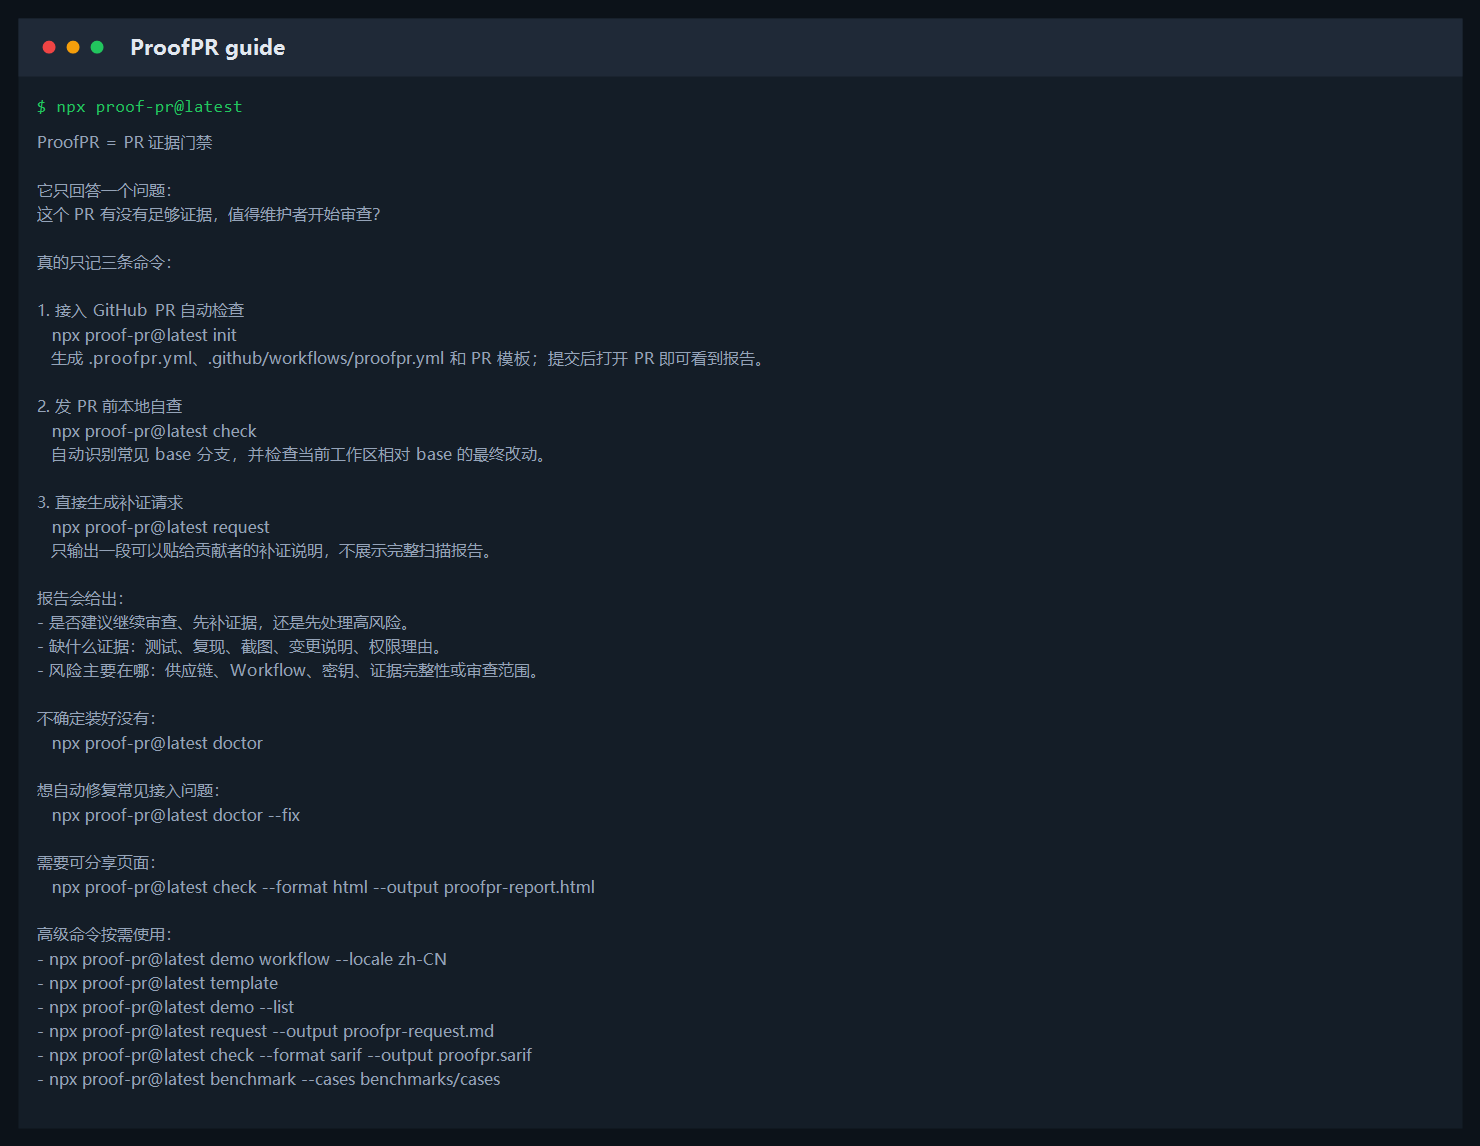
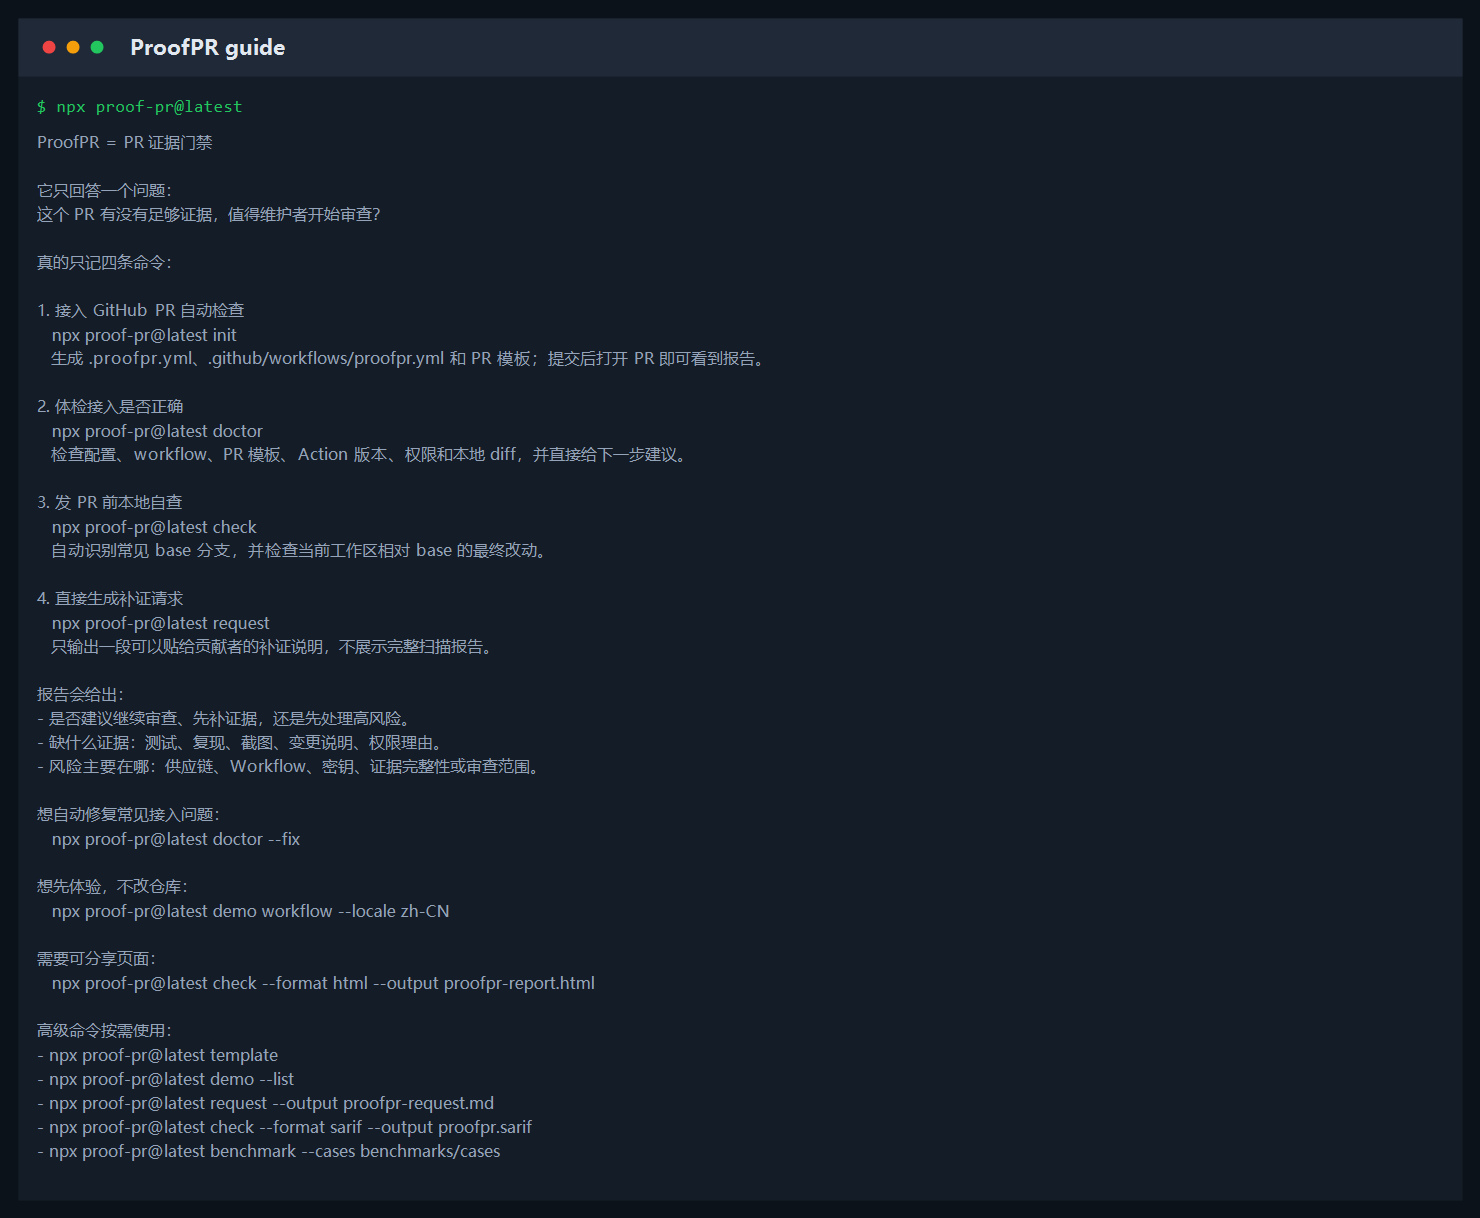
feat: promote doctor in quickstart

Changed region(s): [[0.0, 0.0305, 0.5284, 0.9468], [0.0311, 0.0305, 0.0622, 0.0611]]

diff --git a/packages/cli/src/index.ts b/packages/cli/src/index.ts
@@ -23,7 +23,7 @@ import {
 } from "@proof-pr/core";
 
 const execFileAsync = promisify(execFile);
-const CLI_VERSION = "0.1.42";
+const CLI_VERSION = "0.1.43";
 
 type OutputFormat = "json" | "markdown" | "sarif" | "html";
 type FailLevel = RiskLevel | "never";
@@ -623,17 +623,21 @@ function renderGuide(): string {
 它只回答一个问题：
 这个 PR 有没有足够证据，值得维护者开始审查？
 
-真的只记三条命令：
+真的只记四条命令：
 
 1. 接入 GitHub PR 自动检查
    npx proof-pr@latest init
    生成 .proofpr.yml、.github/workflows/proofpr.yml 和 PR 模板；提交后打开 PR 即可看到报告。
 
-2. 发 PR 前本地自查
+2. 体检接入是否正确
+   npx proof-pr@latest doctor
+   检查配置、workflow、PR 模板、Action 版本、权限和本地 diff，并直接给下一步建议。
+
+3. 发 PR 前本地自查
    npx proof-pr@latest check
    自动识别常见 base 分支，并检查当前工作区相对 base 的最终改动。
 
-3. 直接生成补证请求
+4. 直接生成补证请求
    npx proof-pr@latest request
    只输出一段可以贴给贡献者的补证说明，不展示完整扫描报告。
 
@@ -642,17 +646,16 @@ function renderGuide(): string {
 - 缺什么证据：测试、复现、截图、变更说明、权限理由。
 - 风险主要在哪：供应链、Workflow、密钥、证据完整性或审查范围。
 
-不确定装好没有：
-   npx proof-pr@latest doctor
-
 想自动修复常见接入问题：
    npx proof-pr@latest doctor --fix
+
+想先体验，不改仓库：
+   npx proof-pr@latest demo workflow --locale zh-CN
 
 需要可分享页面：
    npx proof-pr@latest check --format html --output proofpr-report.html
 
 高级命令按需使用：
-- npx proof-pr@latest demo workflow --locale zh-CN
 - npx proof-pr@latest template
 - npx proof-pr@latest demo --list
 - npx proof-pr@latest request --output proofpr-request.md
@@ -665,6 +668,7 @@ function renderRootHelpFooter(): string {
   return `
 常用复制：
   npx proof-pr@latest init
+  npx proof-pr@latest doctor
   npx proof-pr@latest check
   npx proof-pr@latest request
 

diff --git a/docs/commands.md b/docs/commands.md
@@ -14,7 +14,7 @@ npx proof-pr@latest
 npx proof-pr@latest guide
 ```
 
-也可以运行 `npx proof-pr@latest --help`。帮助信息会显示中文命令说明，底部会给出 `init`、`check`、`request` 三条常用复制命令。
+也可以运行 `npx proof-pr@latest --help`。帮助信息会显示中文命令说明，底部会给出 `init`、`doctor`、`check`、`request` 四条常用复制命令。
 
 ![ProofPR 中文功能菜单](screenshots/proofpr-guide-output.png)
 
@@ -23,6 +23,7 @@ npx proof-pr@latest guide
 | 目标 | 命令 | 结果在哪里看 |
 | --- | --- | --- |
 | 接入 GitHub PR 自动检查 | `npx proof-pr@latest init` | PR 评论、Actions summary、Checks、HTML artifact |
+| 体检接入是否正确 | `npx proof-pr@latest doctor` | 当前终端 |
 | 发 PR 前本地自查 | `npx proof-pr@latest check` | 当前终端 |
 | 生成贡献者补证请求 | `npx proof-pr@latest request` | 当前终端 |
 
@@ -30,7 +31,6 @@ npx proof-pr@latest guide
 
 | 场景 | 命令 | 结果在哪里看 |
 | --- | --- | --- |
-| 不确定是否装好 | `npx proof-pr@latest doctor` | 当前终端 |
 | 自动修复常见接入问题 | `npx proof-pr@latest doctor --fix` | 当前终端和接入文件 |
 | 先看效果，不改仓库 | `npx proof-pr@latest demo workflow --locale zh-CN` | 当前终端 |
 | 已接入仓库但缺少 PR 模板 | `npx proof-pr@latest template` | `.github/pull_request_template.md` |
@@ -120,7 +120,7 @@ npx proof-pr@latest doctor
 - `.github/workflows/proofpr.yml` 是否存在。
 - `.github/pull_request_template.md` 是否存在，以及是否提示验证、复现、截图或权限理由。
 - workflow 是否监听 `pull_request`。
-- workflow 是否使用当前推荐的 `linsk27/proof-pr@v0.1.42`。
+- workflow 是否使用当前推荐的 `linsk27/proof-pr@v0.1.43`。
 - 是否具备 `pull-requests: write` 和 `contents: read` 权限。
 - 是否启用了 `html-output` 和 `actions/upload-artifact`，方便下载 HTML 可视化报告。
 - 当前目录是否在 Git 仓库里，以及自动识别出的 base...HEAD diff 是否可读。

diff --git a/docs/getting-started.md b/docs/getting-started.md
@@ -44,7 +44,7 @@ npx proof-pr@latest doctor
 
 ![ProofPR doctor 体检输出](screenshots/proofpr-doctor-output.png)
 
-如果你不确定下一步该做什么，可以直接看中文向导。它会把默认路径收敛成“接入仓库、本地自查、生成补证请求”三个动作：
+如果你不确定下一步该做什么，可以直接看中文向导。它会把默认路径收敛成“接入仓库、体检接入、本地自查、生成补证请求”四个动作：
 
 ```bash
 npx proof-pr@latest
@@ -52,7 +52,7 @@ npx proof-pr@latest
 npx proof-pr@latest guide
 ```
 
-如果你习惯先看帮助，`npx proof-pr@latest --help` 会显示中文命令说明，底部也会给出三条常用复制命令。
+如果你习惯先看帮助，`npx proof-pr@latest --help` 会显示中文命令说明，底部也会给出四条常用复制命令。
 
 ![ProofPR 中文功能菜单](screenshots/proofpr-guide-output.png)
 
@@ -76,7 +76,7 @@ jobs:
     runs-on: ubuntu-latest
     steps:
       - uses: actions/checkout@v4
-      - uses: linsk27/proof-pr@v0.1.42
+      - uses: linsk27/proof-pr@v0.1.43
         with:
           fail-on: high
           comment: "true"
@@ -147,7 +147,7 @@ npx proof-pr@latest request
 
 `check` 会自动选择常见主分支作为 base，并纳入已提交分支 diff、staged、unstaged 和未跟踪新文件。当前没有可扫描 diff 时，它只输出短提示和下一步建议。
 
-如果第一行输出 `0.1.42`，说明你正在使用当前最新发布版。
+如果第一行输出 `0.1.43`，说明你正在使用当前最新发布版。
 
 也可以全局安装：
 
@@ -168,7 +168,7 @@ node packages/cli/dist/index.js check
 
 ## 辅助命令
 
-不确定是否装好：
+接入后想重新体检：
 
 ```bash
 proof-pr doctor

diff --git a/docs/release.md b/docs/release.md
@@ -1,6 +1,6 @@
 # 发布流程
 
-当前最新公开版本是 `0.1.42`。
+当前最新公开版本是 `0.1.43`。
 
 ## 发布前检查
 
@@ -52,8 +52,8 @@ npm 官方要求 trusted publishing 使用 npm 11.5.1+ 和 Node 22.14+；`npm tr
 确认 `pnpm release:check` 通过后：
 
 ```bash
-git tag v0.1.42
-git push origin v0.1.42
+git tag v0.1.43
+git push origin v0.1.43
 ```
 
 发布完成后需要检查：
@@ -66,9 +66,17 @@ npx proof-pr@latest --version
 当前验证结果：
 
 ```txt
-npm view proof-pr version -> 0.1.42
-npx proof-pr@latest --version -> 0.1.42
+npm view proof-pr version -> 0.1.43
+npx proof-pr@latest --version -> 0.1.43
 ```
+
+## `v0.1.43` 发布状态
+
+`v0.1.43` 是自检入口前置版，重点包括：
+
+- 中文向导把默认路径从三条扩展为四条：`init`、`doctor`、`check`、`request`。
+- 顶层 `--help` 的常用复制命令补上 `doctor`，让用户接入后能先自检。
+- README、命令速查、快速开始和 npm 包 README 同步把 `doctor` 放入默认路径，而不是只作为辅助命令。
 
 ## `v0.1.42` 发布状态
 
@@ -314,7 +322,7 @@ npx proof-pr@latest --version -> 0.1.42
 
 ## 版本说明
 
-`0.1.8` 已经发布到 npm，但 CLI `--version` 仍显示旧版本。`0.1.42` 继承了后续修复，并且是当前推荐使用版本。
+`0.1.8` 已经发布到 npm，但 CLI `--version` 仍显示旧版本。`0.1.43` 继承了后续修复，并且是当前推荐使用版本。
 
 ## 发布后动作
 

diff --git a/docs/README.md b/docs/README.md
@@ -17,8 +17,8 @@
 
 ## 当前发布
 
-- GitHub Release：[`v0.1.42`](https://github.com/linsk27/proof-pr/releases/tag/v0.1.42)
-- npm：[`proof-pr@0.1.42`](https://www.npmjs.com/package/proof-pr)
+- GitHub Release：[`v0.1.43`](https://github.com/linsk27/proof-pr/releases/tag/v0.1.43)
+- npm：[`proof-pr@0.1.43`](https://www.npmjs.com/package/proof-pr)
 - 核心能力：判断 PR 是否值得审查、指出缺失证据、标出高风险改动区域，并生成维护者行动清单。
 - 辅助能力：HTML 报告、GitHub annotations、SARIF、benchmark、真实案例库和 npm Trusted Publishing 发布流程。
 
@@ -29,7 +29,7 @@ npm view proof-pr version
 npx proof-pr@latest --version
 ```
 
-当前都应输出 `0.1.42`。
+当前都应输出 `0.1.43`。
 
 不知道怎么开始时：
 

diff --git a/docs/roadmap.md b/docs/roadmap.md
@@ -31,7 +31,7 @@ ProofPR 的长期定位不是“又一个代码扫描器”，而是 **AI 时代
    代码侧材料已准备好，下一步需要仓库所有者在 GitHub 网页上确认发布。
 
 2. 发布链路稳定性
-   Trusted Publisher 已配置并通过 `v0.1.21` 到 `v0.1.42` 验证。后续重点是保持 release workflow 简单可审计，避免回退到本地 token 发布。
+   Trusted Publisher 已配置并通过 `v0.1.21` 到 `v0.1.43` 验证。后续重点是保持 release workflow 简单可审计，避免回退到本地 token 发布。
 
 3. 真实截图刷新
    用供应链增强规则重新跑一个 demo PR，补充新版依赖风险、HTML 报告和 benchmark 效果图。

diff --git a/docs/zero-to-one.md b/docs/zero-to-one.md
@@ -149,7 +149,7 @@ npx proof-pr@latest check
 
 `check` 会自动选择常见主分支作为 base，并纳入已提交分支 diff、staged、unstaged 和未跟踪新文件。当前没有可扫描 diff 时，它只输出短提示和下一步建议。
 
-第一行当前应输出 `0.1.42`，用于确认 npm latest 已经安装正确。
+第一行当前应输出 `0.1.43`，用于确认 npm latest 已经安装正确。
 
 扫描内置案例：
 
@@ -201,7 +201,7 @@ permissions:
 
 steps:
   - uses: actions/checkout@v4
-  - uses: linsk27/proof-pr@v0.1.42
+  - uses: linsk27/proof-pr@v0.1.43
     with:
       fail-on: high
       comment: "true"

diff --git a/docs/sarif-code-scanning.md b/docs/sarif-code-scanning.md
@@ -59,7 +59,7 @@ jobs:
     runs-on: ubuntu-latest
     steps:
       - uses: actions/checkout@v4
-      - uses: linsk27/proof-pr@v0.1.42
+      - uses: linsk27/proof-pr@v0.1.43
         with:
           fail-on: high
           comment: "true"
